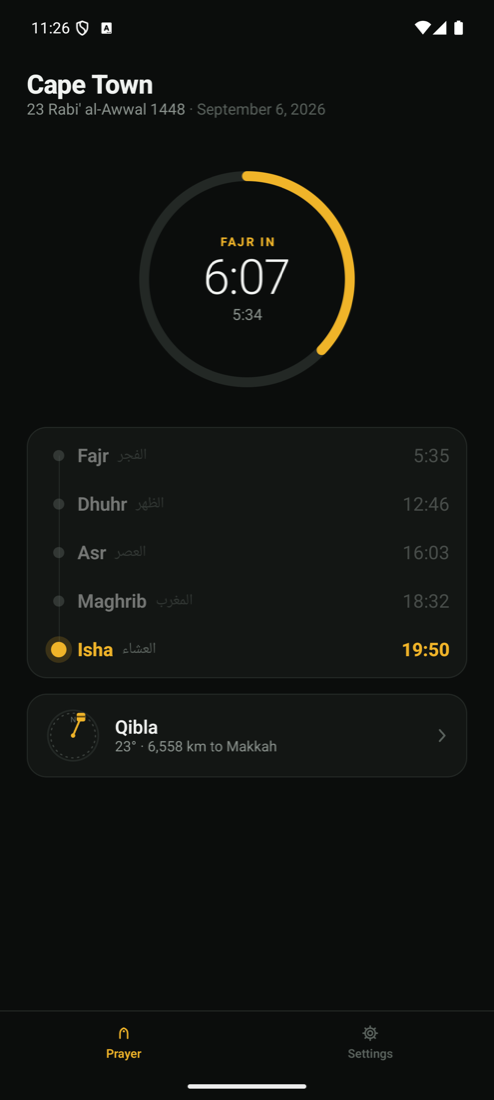
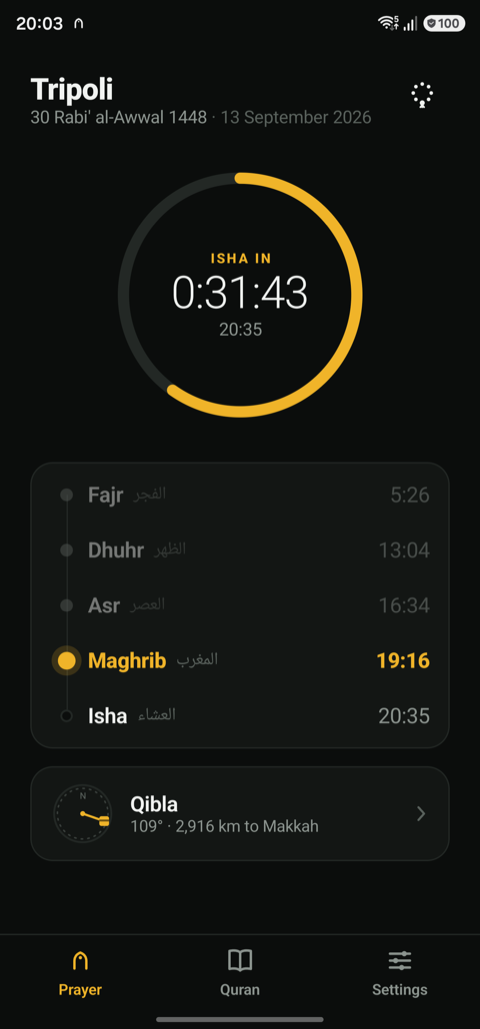
Screenshots from the S23, a fuller README, widgets on the site
Every screenshot is now from a Samsung Galaxy S23 Ultra on the current
build: Prayer in light, dark and Arabic, the real Qibla compass, the
Quran tab, the reader, Mushaf mode, recitation playing, the tasbeeh,
Settings, Notifications, About, and the three home-screen widgets on
the phone's own wallpaper. The two screens that show a version were
taken at 1.0.0, the version the first release will carry.

The README leads with the site, shows the widgets as the feature they
are, updates the roadmap (slices 1 to 3 done, tasbeeh done) and the
project layout, and links the Arabic policy. The site gains a widgets
section in both languages and a three-column strip of the new screens.

diff --git a/site/pages/ar/home.html b/site/pages/ar/home.html
@@ -20,10 +20,7 @@
     </div>
     <div class="hero-shot">
       <div class="shot">
-        <picture>
-          <source srcset="{root}assets/img/prayer-arabic-dark.png" media="(prefers-color-scheme: dark)">
-          <img src="{root}assets/img/prayer-arabic.png" width="640" height="1424" alt="شاشة الصلاة: حلقة عدّ تنازلي إلى الصلاة التالية، ومواقيت اليوم الخمسة، وبطاقة القبلة">
-        </picture>
+        <img src="{root}assets/img/prayer-arabic.png" width="640" height="1372" alt="شاشة الصلاة: حلقة عدّ تنازلي إلى الصلاة التالية، ومواقيت اليوم الخمسة، وبطاقة القبلة">
       </div>
     </div>
   </section>
@@ -67,7 +64,7 @@
         <article class="card">
           <svg class="glyph" viewBox="0 0 16 16" fill="none" aria-hidden="true"><rect x="2" y="3" width="12" height="10" rx="2.6" stroke="currentColor" stroke-width="1.4"/><path d="M5 6.5h6M5 9.5h3.5" stroke="currentColor" stroke-width="1.4" stroke-linecap="round"/></svg>
           <h3>أدوات الشاشة الرئيسية</h3>
-          <p>الصلاة التالية وعدّ تنازلي حيّ على الشاشة الرئيسية، ومواقيت اليوم، وآية كل يوم، على المنصتين.</p>
+          <p>الصلاة التالية وعدّ تنازلي حيّ على الشاشة الرئيسية، ومواقيت اليوم، وآية كل يوم، على المنصتين. تواصل العدّ دون فتح التطبيق.</p>
         </article>
         <article class="card">
           <svg class="glyph" viewBox="0 0 16 16" fill="none" aria-hidden="true"><circle cx="8" cy="8" r="6" stroke="currentColor" stroke-width="1.4"/><path d="M2.3 8h11.4M8 2c2.2 2.2 2.2 9.8 0 12M8 2c-2.2 2.2-2.2 9.8 0 12" stroke="currentColor" stroke-width="1.4" stroke-linecap="round"/></svg>
@@ -78,14 +75,27 @@
     </div>
   </section>
 
+  <section class="section" id="widgets">
+    <div class="wrap split">
+      <div>
+        <p class="label">على شاشتك الرئيسية</p>
+        <h2>الصلاة التالية، دون أن تفتح شيئًا.</h2>
+        <p class="lede" style="margin-bottom: 0;">ثلاث أدوات، على أندرويد وiOS. صغيرة تعرض الصلاة التالية وعدًّا تنازليًا حيًّا، ومتوسطة تضيف مواقيت اليوم الخمسة، وآية اليوم بخط القارئ نفسه مع ترجمتها. تتحدّث من تلقاء نفسها طوال اليوم، وخلفيتها تتبع النظام أو تبقى فاتحة أو داكنة أو تمتزج بخلفية شاشتك. انقر أداة الصلاة لتفتح شاشة الصلاة، وانقر الآية لتفتحها في القارئ.</p>
+      </div>
+      <div class="widgets-shot"><img src="{root}assets/img/widgets.png" width="640" height="1036" alt="ثلاث أدوات على الشاشة الرئيسية: عدّ تنازلي صغير إلى الصلاة التالية، وأداة متوسطة بالعدّ ومواقيت اليوم الخمسة، وبطاقة آية بالعربية وترجمتها" loading="lazy"></div>
+    </div>
+  </section>
+
   <section class="section" id="screens">
     <div class="wrap">
       <p class="label">على الهاتف</p>
       <div class="screens">
-        <figure class="screen"><div class="shot"><img src="{root}assets/img/prayer-arabic-dark.png" width="640" height="1424" alt="شاشة الصلاة بالمظهر الداكن" loading="lazy"></div><figcaption>الصلاة، المظهر الداكن</figcaption></figure>
-        <figure class="screen"><div class="shot"><img src="{root}assets/img/reader-arabic.png" width="640" height="1424" alt="وضع المصحف: الفاتحة على صفحتها كما في مصحف المدينة" loading="lazy"></div><figcaption>وضع المصحف</figcaption></figure>
-        <figure class="screen"><div class="shot"><img src="{root}assets/img/tasbeeh-arabic.png" width="640" height="1424" alt="عدّاد التسبيح في أذكار ما بعد الصلاة" loading="lazy"></div><figcaption>التسبيح</figcaption></figure>
-        <figure class="screen"><div class="shot"><img src="{root}assets/img/prayer-light.png" width="640" height="1424" alt="شاشة الصلاة بالإنجليزية" loading="lazy"></div><figcaption>بالإنجليزية</figcaption></figure>
+        <figure class="screen"><div class="shot"><img src="{root}assets/img/mushaf-arabic.png" width="640" height="1372" alt="وضع المصحف: الفاتحة على صفحتها كما في مصحف المدينة" loading="lazy"></div><figcaption>وضع المصحف</figcaption></figure>
+        <figure class="screen"><div class="shot"><img src="{root}assets/img/quran-list-arabic.png" width="640" height="1372" alt="تبويب القرآن: البحث، وبطاقة متابعة القراءة، وقائمة السور" loading="lazy"></div><figcaption>القرآن</figcaption></figure>
+        <figure class="screen"><div class="shot"><img src="{root}assets/img/tasbeeh-arabic.png" width="640" height="1372" alt="عدّاد التسبيح في أذكار ما بعد الصلاة" loading="lazy"></div><figcaption>التسبيح</figcaption></figure>
+        <figure class="screen"><div class="shot"><img src="{root}assets/img/prayer-dark.png" width="640" height="1372" alt="شاشة الصلاة بالمظهر الداكن" loading="lazy"></div><figcaption>الصلاة، المظهر الداكن</figcaption></figure>
+        <figure class="screen"><div class="shot"><img src="{root}assets/img/recitation.png" width="640" height="1372" alt="التلاوة أثناء التشغيل: الآية الحالية مضاءة وشريط المشغّل بساعة السورة" loading="lazy"></div><figcaption>التلاوة</figcaption></figure>
+        <figure class="screen"><div class="shot"><img src="{root}assets/img/qibla.png" width="640" height="1372" alt="بوصلة القبلة، موجّهة إلى الشمال الحقيقي، وعلامة الكعبة على الحافة" loading="lazy"></div><figcaption>القبلة</figcaption></figure>
       </div>
     </div>
   </section>

diff --git a/site/pages/en/home.html b/site/pages/en/home.html
@@ -22,7 +22,7 @@
       <div class="shot">
         <picture>
           <source srcset="{root}assets/img/prayer-dark.png" media="(prefers-color-scheme: dark)">
-          <img src="{root}assets/img/prayer-light.png" width="640" height="1424" alt="The Prayer screen: a countdown ring to the next prayer, the day's five times, and the Qibla card">
+          <img src="{root}assets/img/prayer-light.png" width="640" height="1372" alt="The Prayer screen: a countdown ring to the next prayer, the day's five times, and the Qibla card">
         </picture>
       </div>
     </div>
@@ -67,7 +67,7 @@
         <article class="card">
           <svg class="glyph" viewBox="0 0 16 16" fill="none" aria-hidden="true"><rect x="2" y="3" width="12" height="10" rx="2.6" stroke="currentColor" stroke-width="1.4"/><path d="M5 6.5h6M5 9.5h3.5" stroke="currentColor" stroke-width="1.4" stroke-linecap="round"/></svg>
           <h3>Widgets</h3>
-          <p>The next prayer and a live countdown on the home screen, the day's times, and an ayah a day, on both platforms.</p>
+          <p>The next prayer and a live countdown on the home screen, the day's times, and an ayah a day, on both platforms. They keep counting without the app being opened.</p>
         </article>
         <article class="card">
           <svg class="glyph" viewBox="0 0 16 16" fill="none" aria-hidden="true"><circle cx="8" cy="8" r="6" stroke="currentColor" stroke-width="1.4"/><path d="M2.3 8h11.4M8 2c2.2 2.2 2.2 9.8 0 12M8 2c-2.2 2.2-2.2 9.8 0 12" stroke="currentColor" stroke-width="1.4" stroke-linecap="round"/></svg>
@@ -78,14 +78,27 @@
     </div>
   </section>
 
+  <section class="section" id="widgets">
+    <div class="wrap split">
+      <div>
+        <p class="label">On your home screen</p>
+        <h2>The next prayer, without opening anything.</h2>
+        <p class="lede" style="margin-bottom: 0;">Three widgets, on Android and iOS. A small one with the next prayer and a live countdown, a medium one that adds the day's five times, and the ayah of the day in the reader's own typeface with its translation. They update on their own, all day, and their background can follow the system, stay light or dark, or blend into your wallpaper. Tap a prayer widget for the Prayer screen; tap the ayah to open it in the reader.</p>
+      </div>
+      <div class="widgets-shot"><img src="{root}assets/img/widgets.png" width="640" height="1036" alt="Three home-screen widgets on a phone: a small countdown to the next prayer, a medium one with the countdown and the day's five times, and an ayah card with the Arabic and its translation" loading="lazy"></div>
+    </div>
+  </section>
+
   <section class="section" id="screens">
     <div class="wrap">
       <p class="label">On the phone</p>
       <div class="screens">
-        <figure class="screen"><div class="shot"><img src="{root}assets/img/prayer-dark.png" width="640" height="1424" alt="Prayer screen in the dark theme" loading="lazy"></div><figcaption>Prayer, dark</figcaption></figure>
-        <figure class="screen"><div class="shot"><img src="{root}assets/img/reader.png" width="640" height="1424" alt="The Quran reader: Al-Fatihah in the Mushaf typeface with the translation beneath each ayah" loading="lazy"></div><figcaption>The Quran reader</figcaption></figure>
-        <figure class="screen"><div class="shot"><img src="{root}assets/img/tasbeeh.png" width="640" height="1424" alt="The tasbeeh counter at 99 of 100 on the post-prayer set" loading="lazy"></div><figcaption>Tasbeeh</figcaption></figure>
-        <figure class="screen"><div class="shot"><img src="{root}assets/img/prayer-arabic.png" width="640" height="1424" alt="Prayer screen in Arabic, laid out right to left" loading="lazy"></div><figcaption>Arabic</figcaption></figure>
+        <figure class="screen"><div class="shot"><img src="{root}assets/img/mushaf.png" width="640" height="1372" alt="Mushaf mode: Al-Fatihah on its page, in the Madinah Mushaf typeface" loading="lazy"></div><figcaption>Mushaf mode</figcaption></figure>
+        <figure class="screen"><div class="shot"><img src="{root}assets/img/recitation.png" width="640" height="1372" alt="Recitation playing: the current ayah lit, and a player bar with the surah clock" loading="lazy"></div><figcaption>Recitation</figcaption></figure>
+        <figure class="screen"><div class="shot"><img src="{root}assets/img/qibla.png" width="640" height="1372" alt="The Qibla compass, turned to true north, the Kaaba marker on the rim" loading="lazy"></div><figcaption>Qibla</figcaption></figure>
+        <figure class="screen"><div class="shot"><img src="{root}assets/img/tasbeeh.png" width="640" height="1372" alt="The tasbeeh counter at 40 of 100 on the post-prayer set" loading="lazy"></div><figcaption>Tasbeeh</figcaption></figure>
+        <figure class="screen"><div class="shot"><img src="{root}assets/img/reader-dark.png" width="640" height="1372" alt="The reader in the dark theme, the translation beneath each ayah" loading="lazy"></div><figcaption>The reader, dark</figcaption></figure>
+        <figure class="screen"><div class="shot"><img src="{root}assets/img/prayer-arabic.png" width="640" height="1372" alt="Prayer screen in Arabic, laid out right to left" loading="lazy"></div><figcaption>Arabic</figcaption></figure>
       </div>
     </div>
   </section>

diff --git a/site/assets/style.css b/site/assets/style.css
@@ -122,7 +122,7 @@ html[dir="rtl"] .nav a, html[dir="rtl"] .foot a, html[dir="rtl"] .pill, html[dir
 .card h3 { font-size: 18px; font-weight: 700; letter-spacing: -0.01em; }
 .card p { font-size: 15px; line-height: 1.55; color: var(--t2); text-wrap: pretty; }
 
-.screens { display: grid; grid-template-columns: repeat(auto-fit, minmax(200px, 1fr)); gap: 20px; }
+.screens { display: grid; grid-template-columns: repeat(auto-fit, minmax(240px, 1fr)); gap: 24px 20px; }
 .screen { display: flex; flex-direction: column; gap: 10px; align-items: center; }
 .screen .shot { max-width: 240px; border-radius: 24px; }
 .screen figcaption { font-size: 14px; color: var(--t2); text-align: center; }
@@ -135,6 +135,8 @@ html[dir="rtl"] .nav a, html[dir="rtl"] .foot a, html[dir="rtl"] .pill, html[dir
 .after { margin-top: 20px; font-size: 15px; }
 
 .split { display: grid; grid-template-columns: repeat(auto-fit, minmax(280px, 1fr)); gap: 40px; align-items: start; }
+.widgets-shot { justify-self: center; max-width: 420px; }
+.widgets-shot img { width: 100%; border-radius: 24px; border: 1px solid var(--hair); }
 
 /* ── Prose pages (privacy, support) ───────────────────── */
 .prose { max-width: 68ch; padding: 40px 0 72px; }

diff --git a/README.md b/README.md
@@ -5,8 +5,15 @@
 <h1 align="center">Taqwa</h1>
 
 <p align="center">
-  Prayer times, adhan notifications and qibla.<br>
-  Free, offline by design, no ads, no accounts, no tracking.
+  Prayer times, Qibla and the Quran.<br>
+  Free forever. No ads, no account, offline by design.
+</p>
+
+<p align="center">
+  <a href="https://taqwa.world">taqwa.world</a> ·
+  <a href="https://taqwa.world/ar/">العربية</a> ·
+  <a href="PRIVACY.md">Privacy</a> ·
+  <a href="https://taqwa.world/support/">Support</a>
 </p>
 
 <p align="center">
@@ -14,71 +21,104 @@
   <img alt="Compose Multiplatform" src="https://img.shields.io/badge/Compose_Multiplatform-1.12-4285F4?logo=jetpackcompose&logoColor=white">
   <img alt="Android 8.0+" src="https://img.shields.io/badge/Android-8.0%2B-3DDC84?logo=android&logoColor=white">
   <img alt="iOS 16+" src="https://img.shields.io/badge/iOS-16%2B-000000?logo=apple&logoColor=white">
-  <img alt="Works offline" src="https://img.shields.io/badge/works-offline-B5820B">
+  <img alt="Offline by design" src="https://img.shields.io/badge/offline-by_design-B5820B">
   <img alt="GPL-3.0" src="https://img.shields.io/badge/licence-GPL--3.0-blue">
 </p>
 
 <p align="center">
-  <img src="docs/screenshots/prayer-light.png" width="200" alt="Prayer screen, light theme: countdown ring to Fajr, the day's five prayer times, and the Qibla card">
+  <img src="docs/screenshots/prayer-light.png" width="200" alt="Prayer screen: a countdown ring to Isha, the day's five prayer times, and the Qibla card">
   &nbsp;
-  <img src="docs/screenshots/prayer-dark.png" width="200" alt="Prayer screen, dark theme">
+  <img src="docs/screenshots/mushaf.png" width="200" alt="Mushaf mode: Al-Fatihah on its page, in the Madinah Mushaf typeface">
   &nbsp;
-  <img src="docs/screenshots/qibla.png" width="200" alt="Qibla compass with the Kaaba marker on the rim and the bearing beneath">
+  <img src="docs/screenshots/recitation.png" width="200" alt="Recitation playing: the current ayah lit, and a player bar with the surah clock">
   &nbsp;
-  <img src="docs/screenshots/prayer-arabic.png" width="200" alt="Prayer screen in Arabic, laid out right to left with Arabic-Indic digits">
+  <img src="docs/screenshots/prayer-dark.png" width="200" alt="Prayer screen in the dark theme">
 </p>
 
 ---
 
-Taqwa is a small Islamic app for Android and iPhone, built from one Kotlin Multiplatform codebase. It does a few things and tries to do them properly: tell you the prayer times where you are, call you to them, point you to Makkah, and stay out of your way. Everything is computed on the phone. There is no server, no sign-in, no analytics and nothing to pay for, now or later.
+Taqwa is an Islamic app for Android and iPhone, built from one Kotlin Multiplatform codebase. It does a few things and tries to do them properly: tell you the prayer times where you are, call you to them, point you to Makkah, and carry the Quran with recitation. Then it stays out of your way. Everything is computed on the phone. There is no server, no sign-in, no analytics and nothing to pay for, now or later.
 
 ## What it does
 
-- **Prayer times** for anywhere on Earth, from GPS or a bundled offline database of cities, with the usual calculation methods (Muslim World League, Umm al-Qura, Egyptian, Karachi, ISNA, and more), Hanafi or Standard Asr, high-latitude rules, and per-prayer manual adjustments.
+- **Prayer times** for anywhere on Earth, from your location or a bundled offline database of cities, with the usual calculation methods (Muslim World League, Umm al-Qura, Egyptian, Karachi, ISNA, and more), Hanafi or Standard Asr, high-latitude rules, and per-prayer manual adjustments.
 - **A live countdown** to the next prayer, on the Prayer screen and in home-screen widgets on both platforms. The widgets keep counting across prayers without the app being opened.
-- **An ayah widget** showing one verse a day, in the same Uthmani typeface and translation as the reader, drawn from a curated pool of a hundred that cycles without repeats. Tapping it opens that ayah in the app.
-- **Tasbeeh.** A dhikr counter behind the misbaha icon on the Prayer screen: tap anywhere to count, the post-prayer set runs to a hundred with the dhikr changing at each part and a distinct pulse in the hand, your own phrases can be added, and nothing is ever totted up.
-- **Privacy you can check.** Settings › About Taqwa says what stays on the phone and what the internet is used for, and links the policy, the source and the licence.
-- **Notifications at the exact time**, with a choice per prayer between silence, a clear announcement tone, a takbir, or the opening of the adhan, and a choice of three adhan recordings. Optional reminder a few minutes before.
-- **Qibla compass** corrected to true north, with the great-circle distance to Makkah and honest calibration guidance when the compass needs it.
+- **Adhan at the exact time.** A notification for each prayer, with a choice per prayer between silence, a clear tone, a takbir, or the opening of the adhan in a choice of three voices. Optional reminder a few minutes before.
+- **Qibla compass** corrected to true north, with the great-circle distance to Makkah and honest calibration guidance when the phone's compass needs it, instead of a needle that pretends.
 - **Hijri date** from the tabular (arithmetic) Islamic calendar, which can differ by a day from Umm al-Qura and from local moonsighting, with a one-day adjustment to match your community; shown beside the Gregorian date.
-- **Quran reader** with the Uthmani text in the Madinah Mushaf typeface, seven translations and a transliteration, a page-accurate Mushaf mode, search in Arabic or in the chosen translation, bookmarks, and copy or share of any ayah; everything offline.
-- **Recitation** by ten reciters, downloaded a surah at a time (or the whole Quran for a reciter) and then played offline with the ayah lit and the page following the voice, in the background with lock-screen controls. A speaker button in the reader, a Play action on any ayah, a slim player bar, and a picker with a fifteen-second preview of each voice. The recordings are the Islamic Network's, mirrored unmodified on a public data repository.
+- **The Quran** with the Uthmani text in the Madinah Mushaf typeface, seven translations and a transliteration, a page-accurate Mushaf mode, search in Arabic or in the chosen translation, bookmarks, a continue-reading card, and copy or share of any ayah. All of it offline.
+- **Recitation** by ten reciters, downloaded a surah at a time (or the whole Quran for a reciter) and then played offline with the ayah lit and the page following the voice, in the background with lock-screen controls and a surah clock. A speaker button in the reader, a Play action on any ayah, previous and next by surah, and a picker with a fifteen-second preview of each voice.
+- **Tasbeeh.** A dhikr counter behind the misbaha icon on the Prayer screen: tap anywhere to count, the post-prayer set runs to a hundred with the dhikr changing at each part and a distinct pulse in the hand, a completed set rolls over on its own, your own phrases can be added, and nothing is ever totted up.
+- **An ayah widget** showing one verse a day, in the same Uthmani typeface and translation as the reader, from a curated pool of a hundred that cycles without repeats. Tapping it opens that ayah in the app.
+- **Privacy you can check.** Settings › About Taqwa says what stays on the phone and what the internet is used for, and links the policy, the source and the licence.
 - **Arabic and English**, following the phone's language. Arabic is laid out right to left with the locale's own digits, not translated over an English layout.
 - **Light and dark**, following the system or fixed, in one amber accent.
 
-## Principles
+## On your home screen
 
-- **Zero recurring cost.** Nothing in the app contacts a server of ours; there is none. The only network use is recitation downloads from a public GitHub repository, on request. This is a hard constraint on every feature, not a preference.
-- **Your language, including the map.** The bundled city list carries names in Arabic, Indonesian, Urdu, Bengali, Turkish and French as well as English, so a city can be searched and read in either its own language or English, and the Prayer header follows the phone.
-- **Offline first.** Prayer times and qibla are mathematics; the city database ships inside the app.
-- **Nothing to sell.** No ads, no premium tier, no data collection, no account.
-- **One design, both platforms.** The same Compose UI on Android and iOS, with native widgets, notifications, sensors and location behind small `expect`/`actual` seams.
-- **Arabic is first-class.** Names, dates, digits and layout direction are all locale-driven.
+<p align="center">
+  <img src="docs/screenshots/widgets.png" width="300" alt="Three home-screen widgets on a Samsung phone: a small countdown to the next prayer, a medium one with the countdown and the day's five times, and an ayah card with the Arabic and its translation">
+</p>
+
+Three widgets, on Android and iOS: a **small** one with the next prayer and a live countdown, a **medium** one that adds the day's five times, and the **ayah of the day** in the reader's own typeface with its translation. They update on their own, all day, without the app being opened, and their background can follow the system, stay light or dark, or blend into the wallpaper as above. Tapping a prayer widget opens the Prayer screen; tapping the ayah opens that verse in the reader.
 
 ## More screens
 
 <p align="center">
-  <img src="docs/screenshots/settings.png" width="200" alt="Settings: location, prayer times method, notifications, appearance, language, version, attribution">
+  <img src="docs/screenshots/qibla.png" width="200" alt="Qibla compass: the dial turned to true north, the Kaaba marker on the rim, the bearing beneath">
   &nbsp;
-  <img src="docs/screenshots/notifications.png" width="200" alt="Notification settings: master switch, remind-before, and a sound per prayer">
+  <img src="docs/screenshots/quran-list.png" width="200" alt="The Quran tab: search, a continue-reading card, and the surah list with Arabic names">
   &nbsp;
-  <img src="docs/screenshots/widget-small.png" width="150" alt="Small home-screen widget: next prayer and countdown">
+  <img src="docs/screenshots/reader.png" width="200" alt="The reader: each ayah in the Mushaf typeface with the translation beneath">
   &nbsp;
-  <img src="docs/screenshots/widget-medium.png" width="232" alt="Medium home-screen widget: next prayer, countdown and the day's times">
+  <img src="docs/screenshots/tasbeeh.png" width="200" alt="Tasbeeh at 40 of 100 on the post-prayer set, the dhikr now Alhamdulillah">
 </p>
+
+<p align="center">
+  <img src="docs/screenshots/settings.png" width="200" alt="Settings: location, prayer times method, notifications, recitation, appearance, language, about, attribution">
+  &nbsp;
+  <img src="docs/screenshots/notifications.png" width="200" alt="Notification settings: the master switch, remind-before, the adhan voice, and a sound per prayer">
+  &nbsp;
+  <img src="docs/screenshots/about.png" width="200" alt="About Taqwa: version, the privacy model in three lines, and links to the policy, the source and the licence">
+  &nbsp;
+  <img src="docs/screenshots/reader-dark.png" width="200" alt="The reader in the dark theme">
+</p>
+
+<p align="center">
+  <img src="docs/screenshots/prayer-arabic.png" width="200" alt="Prayer screen in Arabic, laid out right to left with Arabic-Indic digits">
+  &nbsp;
+  <img src="docs/screenshots/quran-list-arabic.png" width="200" alt="The Quran tab in Arabic">
+  &nbsp;
+  <img src="docs/screenshots/mushaf-arabic.png" width="200" alt="Mushaf mode under the Arabic interface">
+  &nbsp;
+  <img src="docs/screenshots/tasbeeh-arabic.png" width="200" alt="Tasbeeh in Arabic, the count in Arabic-Indic digits">
+</p>
+
+All screenshots are from a Samsung Galaxy S23 Ultra running the current build.
+
+## Principles
+
+- **Zero recurring cost.** Nothing in the app contacts a server of ours; there is none. The only network use is recitation downloads from a public GitHub repository, on request. This is a hard constraint on every feature, not a preference.
+- **Offline first.** Prayer times and Qibla are mathematics; the city database and the Quran ship inside the app; recitations are downloaded once and kept.
+- **Your language, including the map.** The bundled city list carries names in Arabic, Indonesian, Urdu, Bengali, Turkish and French as well as English, so a city can be searched and read in either its own language or English, and the Prayer header follows the phone.
+- **Nothing to sell.** No ads, no premium tier, no data collection, no account.
+- **One design, both platforms.** The same Compose UI on Android and iOS, with native widgets, notifications, sensors, audio and location behind small `expect`/`actual` seams.
+- **Arabic is first-class.** Names, dates, digits and layout direction are all locale-driven.
+
+## Get it
+
+Taqwa is coming to Google Play and the App Store. Until then it can be built from source (below), and the website at [taqwa.world](https://taqwa.world) will carry the store links the day they exist.
 
 ## Roadmap
 
-Taqwa is being built in slices. Each slice ships as a complete, usable app.
+Taqwa is built in slices. Each slice ships as a complete, usable app.
 
 | Slice | Scope | Status |
 |---|---|---|
-| 1 | Prayer times, notifications, qibla, widgets, settings, Arabic | **Done**, in device testing |
-| 2 | Quran reader: Arabic text with translations beneath, Mushaf mode, search, bookmarks, share; bundled offline | **Done** |
-| 3 | Quran audio: recitations, per-ayah playback | Planned |
-| 4 | Dhikr: morning and evening adhkar, tasbih, khatm plan | Planned |
-
+| 1 | Prayer times, notifications, Qibla, widgets, settings, Arabic | **Done** |
+| 2 | Quran reader: Arabic text with translations, Mushaf mode, search, bookmarks, share; bundled offline | **Done** |
+| 3 | Quran audio: ten reciters, per-surah downloads, background playback with the page following | **Done** |
+| 4 | Dhikr: tasbeeh **done**; morning and evening adhkar and a khatm plan to follow | In progress |
 
 Deliberately out of scope: mosque finder, zakat calculator, hadith collections, community features, anything that needs a server.
 
@@ -113,22 +153,27 @@ The script builds for the simulator and checks the widget extension stays under 
 ./scripts/test.sh
 ```
 
-Runs the shared and widget test suites on the JVM and on the iOS simulator. All the domain logic (prayer times, qibla, Hijri conversion, notification planning, widget content) lives in `commonMain` and is tested there without a device.
+Runs the shared and widget test suites on the JVM and on the iOS simulator. All the domain logic (prayer times, Qibla, Hijri conversion, notification planning, widget content, the recitation library and downloader) lives in `commonMain` and is tested there without a device. `scripts/check-strings.sh` checks that the English and Arabic string files carry the same keys.
+
+**Website**
+
+The site at taqwa.world lives in `site/` and is built by `site/build.py` from the page fragments and the two policy files; a GitHub Pages workflow deploys it on every push that touches it.
 
 ## Project layout
 
 ```
 shared/       Compose UI, domain logic, view models, expect/actual platform seams
 widgetcore/   Compose-free widget model, linked by the iOS widget extension
-androidApp/   Android entry point, Glance widgets, alarm and boot receivers
+androidApp/   Android entry point, Glance widgets, alarm and boot receivers, the recitation service
 iosApp/       iOS entry point (SwiftUI shell), WidgetKit extension
+site/         The website, English and Arabic, built by site/build.py
 assets/       Source audio and generators for the bundled sounds
-docs/         Design spec, implementation plans, build log, attribution
-scripts/      Test and build helpers (they pin the Xcode 26 toolchain)
-tools/        City database builder, Quran database pipeline (build-quran-db.py) and Xcode project helpers
+docs/         Design specs, implementation plans, build log, attribution, store answers
+scripts/      Test and build helpers
+tools/        City database builder, Quran database pipeline, the recitation audio pipeline
 ```
 
-The design spec that the app is built from is in [`docs/superpowers/specs`](docs/superpowers/specs), and [`docs/BUILD-LOG.md`](docs/BUILD-LOG.md) is the narrative of every iteration since, including what was found on real devices and why things are the way they are.
+The design specs the app is built from are in [`docs/superpowers/specs`](docs/superpowers/specs), and [`docs/BUILD-LOG.md`](docs/BUILD-LOG.md) is the narrative of every iteration since, including what was found on real devices and why things are the way they are.
 
 ## Contributing
 
@@ -137,21 +182,21 @@ Contributions are welcome, from a typo in the Arabic strings to a new calculatio
 1. **Open an issue first** for anything beyond a small fix, so the approach can be agreed before you spend time on it. Bug reports are most useful with the device, OS version, language, and a screenshot.
 2. **Fork and branch** from `main`.
 3. **Keep the constraints.** No network calls beyond the recitation downloads the person asked for, no third-party SDKs that phone home, no new colour outside the palette in `Palette.kt`, and Arabic must be checked as carefully as English. If a change touches the UI, include screenshots of both languages and both themes.
-4. **Run `./scripts/test.sh`** and add tests for domain logic. Prayer-time and qibla changes need known-answer tests against published values.
-5. **Open a pull request** (merge request) against `main` describing what changed and why. Small, focused PRs are reviewed quickly; large ones are split.
+4. **Run `./scripts/test.sh`** and add tests for domain logic. Prayer-time and Qibla changes need known-answer tests against published values.
+5. **Open a pull request** against `main` describing what changed and why. Small, focused PRs are reviewed quickly; large ones are split.
 
 Translations: the two string files are `shared/src/commonMain/composeResources/values/strings.xml` and `values-ar/strings.xml`. New languages are welcome as long as every string is covered.
 
 ## Privacy
 
-Taqwa asks for your location only to compute prayer times and the qibla, and only if you choose to allow it; picking a city from the built-in list works just as well. Location never leaves the phone. The app makes no network request until you use Quran recitation. Recitations are downloaded one surah at a time from Taqwa's public data repository on GitHub, only when you ask; that request shows GitHub your IP address and the file you asked for, and nothing else. There are no analytics, no crash reporters and no third-party SDKs that talk to the internet. Full policy in [PRIVACY.md](PRIVACY.md).
+Taqwa asks for your location only to compute prayer times and the Qibla, and only if you choose to allow it; picking a city from the built-in list works just as well. Location never leaves the phone. The app makes no network request until you use Quran recitation. Recitations are downloaded one surah at a time from Taqwa's public data repository on GitHub, only when you ask; that request shows GitHub your IP address and the file you asked for, and nothing else. There are no analytics, no crash reporters and no third-party SDKs that talk to the internet. Full policy in [PRIVACY.md](PRIVACY.md), also in [Arabic](PRIVACY.ar.md).
 
 ## Attribution
 
-Prayer-time mathematics by [Adhan](https://github.com/batoulapps/adhan-kotlin) (MIT), city data from [GeoNames](https://www.geonames.org/) (CC BY 4.0), the Manrope typeface (SIL OFL 1.1), and three adhan and takbir recordings from Wikimedia Commons — "Beautiful adhan" by Adam-synagda (CC0), "The Adhan – Muslim Call to Prayer – Aaqib Azeez" (CC BY-SA 4.0) and "Eid al-Fitr Fajr azan at Malmö Mosque" by Islamic Center Malmö (CC BY 3.0). The Quran text and its translations are from the [Tanzil Project](https://tanzil.net), the reading font is KFGQPC Uthmanic Script Hafs from the King Fahd Glorious Quran Printing Complex, and the Mushaf page layout comes from the Quranic Universal Library data. The recitations are the [Islamic Network](https://alquran.cloud) per-ayah recordings, licensed to them by the reciters for free, non-commercial redistribution at the bitrates they publish and mirrored here unmodified — Alafasy, Abdul Basit, Maher Al Muaiqly, Al-Husary, Al-Minshawi, As-Sudais, Ash-Shuraim, Ash-Shatri, Al-Hudhaify and Al-Ajmi, each credited by name in the app. Full details in [`docs/ATTRIBUTION.md`](docs/ATTRIBUTION.md) and in the app under Settings, Attribution & licences.
+Prayer-time mathematics by [Adhan](https://github.com/batoulapps/adhan-kotlin) (MIT), city data from [GeoNames](https://www.geonames.org/) (CC BY 4.0), the Manrope typeface (SIL OFL 1.1), and three adhan and takbir recordings from Wikimedia Commons — "Beautiful adhan" by Adam-synagda (CC0), "The Adhan – Muslim Call to Prayer – Aaqib Azeez" (CC BY-SA 4.0) and "Eid al-Fitr Fajr azan at Malmö Mosque" by Islamic Center Malmö (CC BY 3.0). The Quran text and its translations are from the [Tanzil Project](https://tanzil.net), the reading font is KFGQPC Uthmanic Script Hafs from the King Fahd Glorious Quran Printing Complex, and the Mushaf page layout comes from the Quranic Universal Library data. The recitations are the [Islamic Network](https://alquran.cloud) per-ayah recordings, licensed to them by the reciters for free, non-commercial redistribution at the bitrates they publish and mirrored unmodified — Alafasy, Abdul Basit, Maher Al Muaiqly, Al-Husary, Al-Minshawi, As-Sudais, Ash-Shuraim, Ash-Shatri, Al-Hudhaify and Al-Ajmi, each credited by name in the app. Full details in [`docs/ATTRIBUTION.md`](docs/ATTRIBUTION.md) and in the app under Settings › Attribution & licences.
 
 ## Licence
 
-Taqwa is free software under the [GNU General Public License v3.0](LICENSE). You may use, study, share and modify it, and anything you distribute that is built from it must stay under the same licence with its source available. That is deliberate: it keeps a free, ad-free app from being repackaged as neither.
+Taqwa is free software under the [GNU General Public License v3.0](LICENSE). You may use, study, share and modify it, and anything you distribute that is built from it must stay under the same licence with its source available. That is deliberate: it keeps a free, ad-free app from being repackaged as neither. The bundled data carries its own licences, listed above and in the app.
 
 Copyright © 2026 Mohamed Abulgasem.
